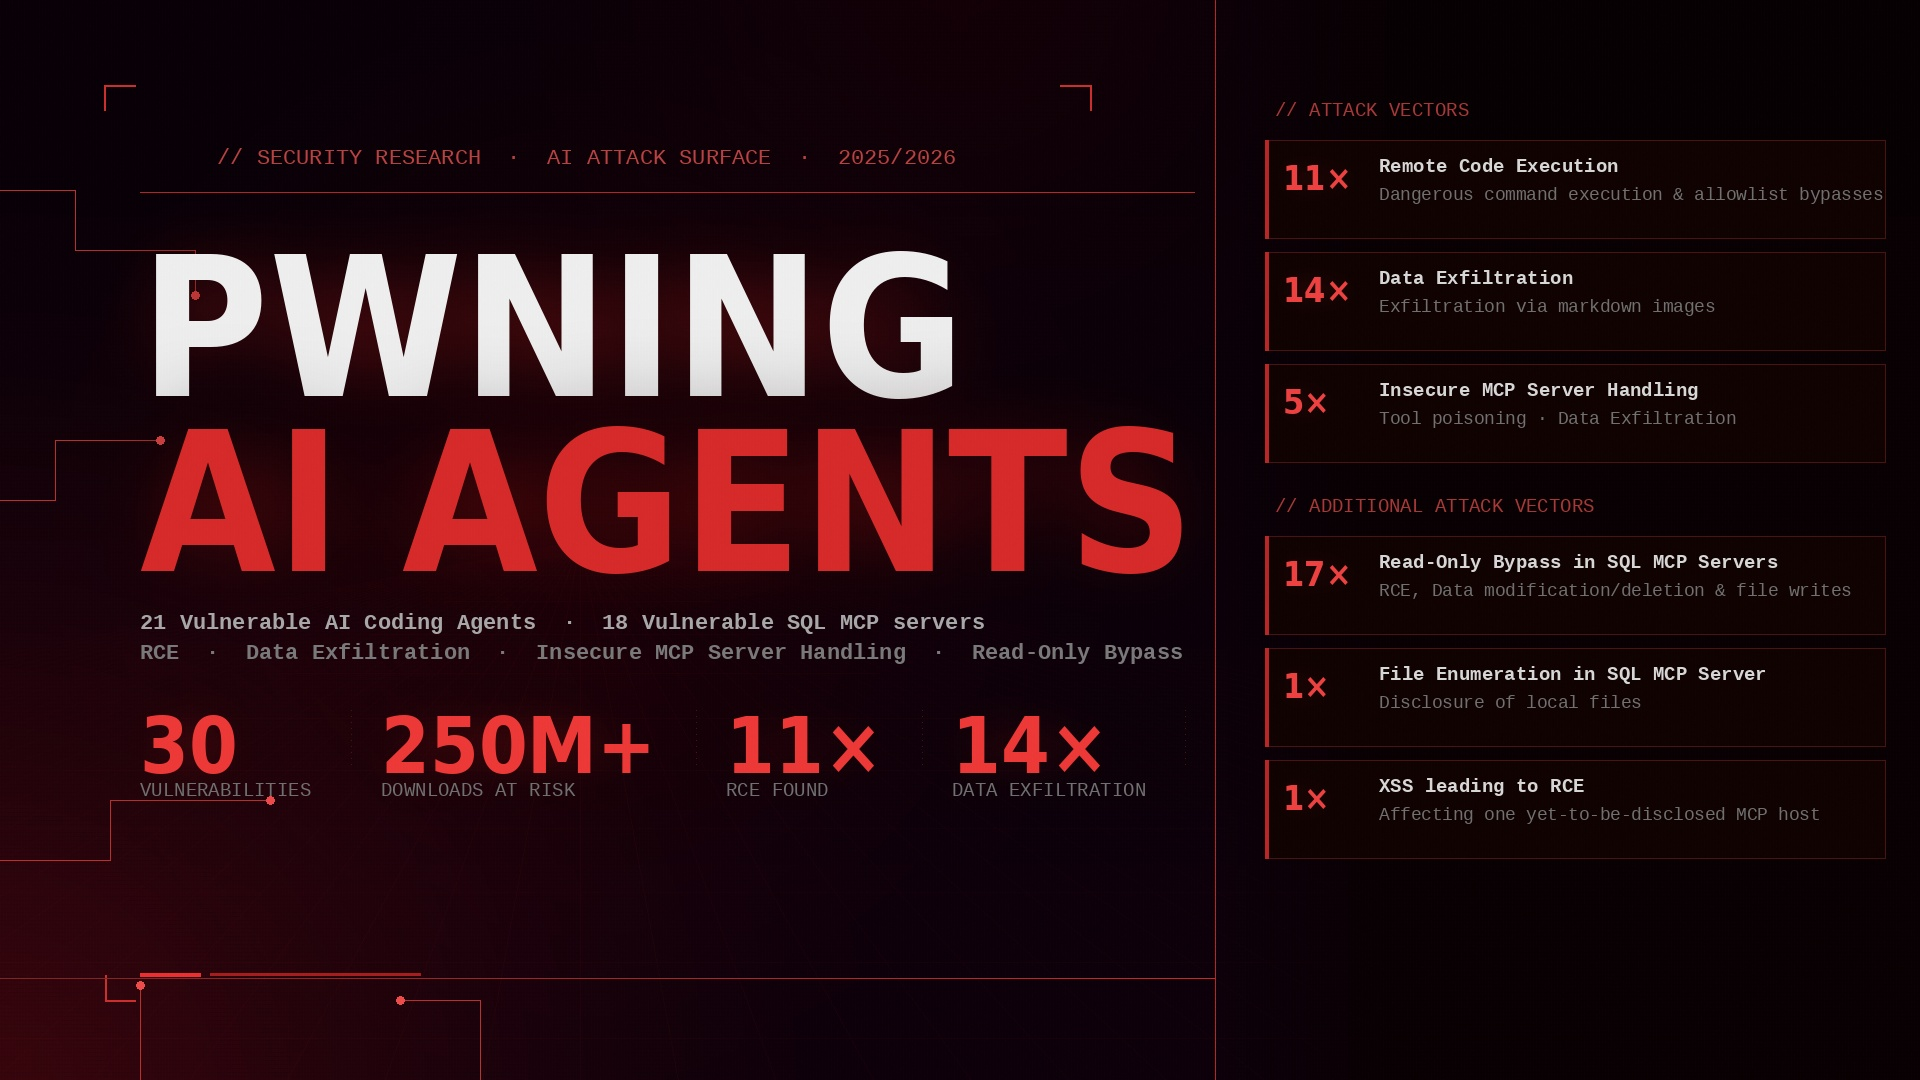
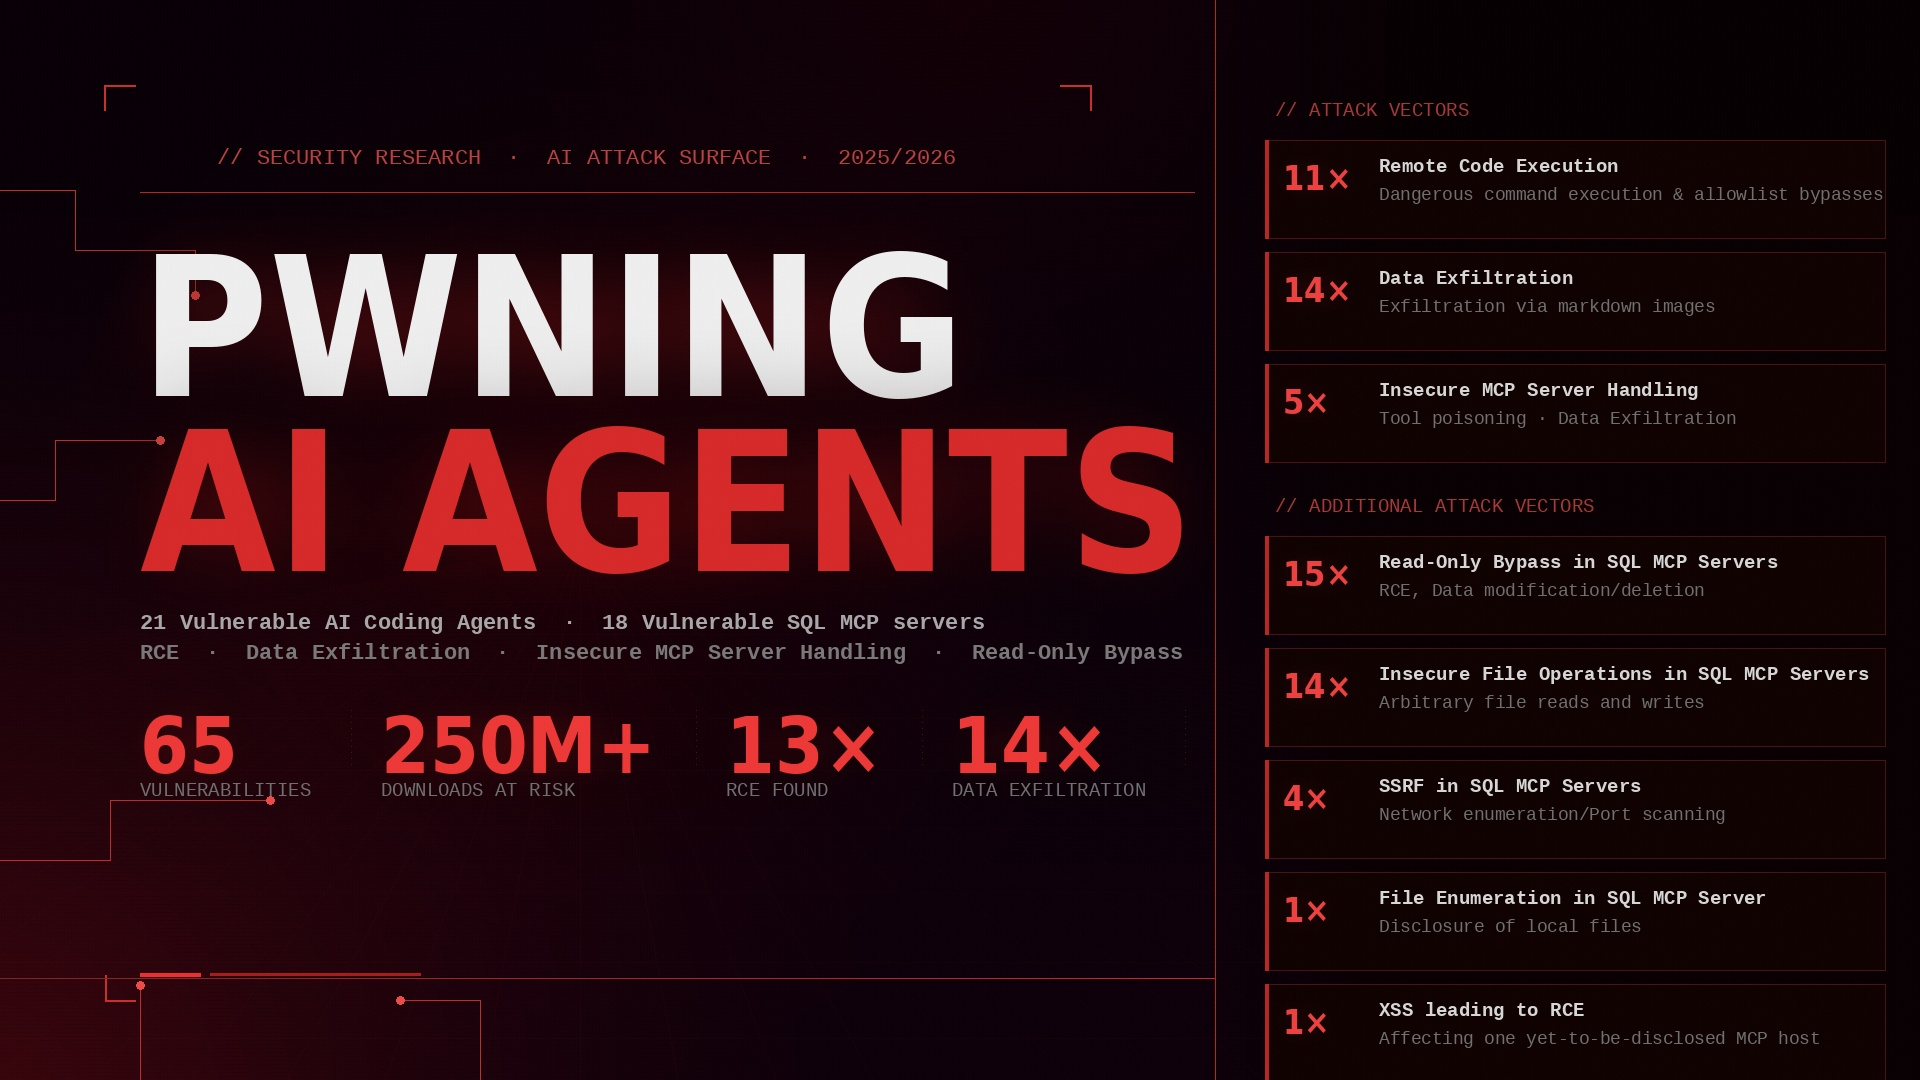
update pwning ai

diff --git a/content/posts/ai-coding-agents-part-1.md b/content/posts/ai-coding-agents-part-1.md
@@ -151,8 +151,8 @@ Vulnerabilities were found in 18 of the 19 examined MCP servers. In 14 cases, th
 |MariaDB/mcp| x | File Write/Read | 0.2.4 | [CVE-2025-69860](https://www.cve.org/CVERecord?id=CVE-2025-69860) |
 |db-mcp-server (postgresql)| 2x | File Write/Read | Oct 1, 2025 Release | [CVE-2025-71175](https://www.cve.org/CVERecord?id=CVE-2025-71175),[CVE-2025-69862](https://www.cve.org/CVERecord?id=CVE-2025-69862) |
 |REDACTED|x| File Write/Read |
-|REDACTED|x| File Write/Read |
-|REDACTED|x| File Write/Read |
+|REDACTED|x| File Write/Read, Port Scanning |
+|REDACTED|x| File Write/Read, Port Scanning |
 |REDACTED| | File Write/Read |
 |REDACTED|x| File Write/Read, Port Scanning |
 |REDACTED|x| File Write/Read, Port Scanning |
